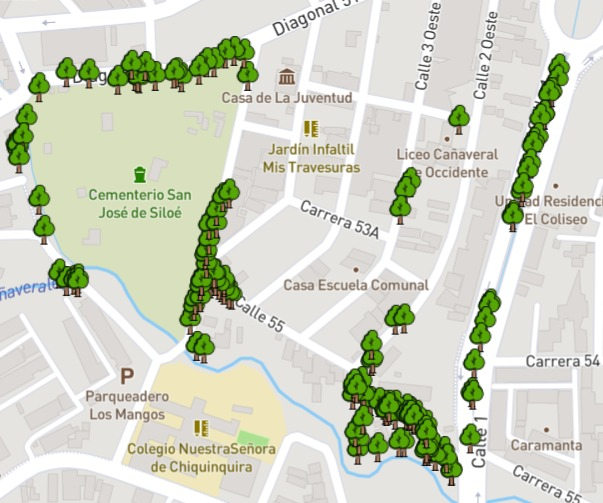
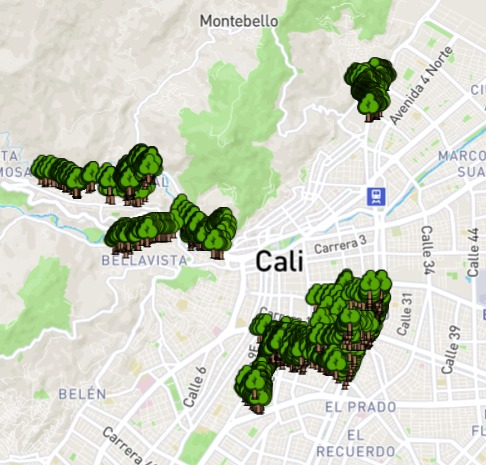
reemplazo de imagenes

diff --git a/src/components/servicios.jsx b/src/components/servicios.jsx
@@ -32,9 +32,7 @@ export function Servicios() {
                             Nos especializamos en el diseño y desarrollo de software a medida, adaptado a las
                             necesidades específicas de nuestros clientes.
                         </p>
-                        <div className="link">
-                            <a href="https://www.ibm.com/es-es/topics/software-development">Ver más</a>
-                        </div>
+                        <div></div>
                     </div>
                 </div>
 
@@ -49,9 +47,7 @@ export function Servicios() {
                             Como desarrolladores web experimentados, nos apasiona crear aplicaciones web modernas y
                             receptivas.
                         </p>
-                        <div className="link">
-                            <a href="https://appmaster.io/es/blog/desarrollo-de-aplicaciones-web">Ver más</a>
-                        </div>
+                        <div></div>
                     </div>
                 </div>
 
@@ -66,9 +62,7 @@ export function Servicios() {
                             Somos expertos en el desarrollo de aplicaciones móviles que están diseñadas para impulsar tu
                             negocio y mejorar la experiencia de tus usuarios.
                         </p>
-                        <div className="link">
-                            <a href="https://www.ibm.com/mx-es/topics/mobile-application-development">Ver más</a>
-                        </div>
+                        <div></div>
                     </div>
                 </div>
 
@@ -83,9 +77,7 @@ export function Servicios() {
                             Como expertos en desarrollo API, diseñamos y construimos interfaces de programación de
                             aplicaciones sólidas y eficientes.
                         </p>
-                        <div className="link">
-                            <a href="#">Ver más</a>
-                        </div>
+                        <div></div>
                     </div>
                 </div>
 
@@ -97,11 +89,7 @@ export function Servicios() {
                     <div className="face back">
                         <h3>Desarrollo de código seguro</h3>
                         <p>Nuestra especialidad es el desarrollo de código web seguro y confiable.</p>
-                        <div className="link">
-                            <a href="https://www.omatech.com/blog/2022/11/30/buenas-practicas-para-un-desarrollo-seguro/#:~:text=El%20desarrollo%20seguro%20es%20la,con%20distintos%20niveles%20de%20complejidad.">
-                                Ver más
-                            </a>
-                        </div>
+                        <div></div>
                     </div>
                 </div>
             </div>
